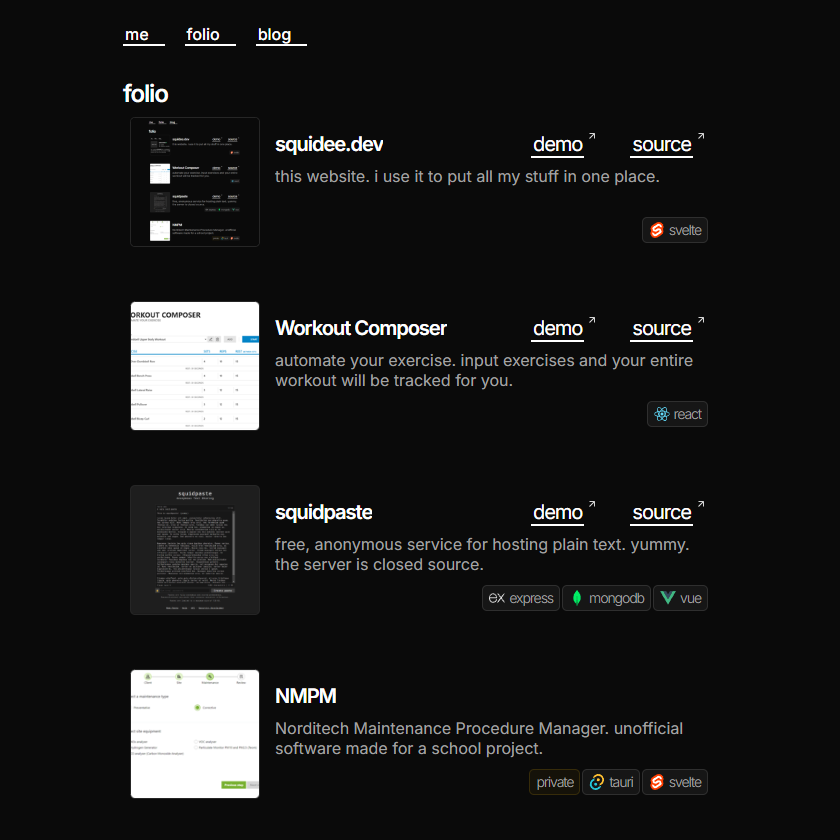
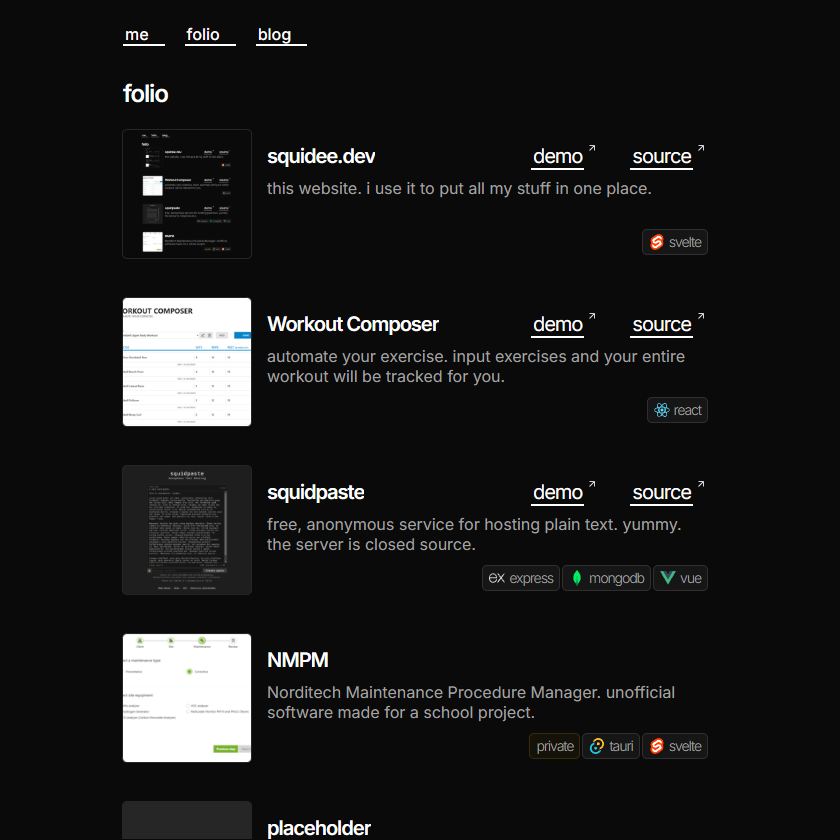
Simplify folio page

diff --git a/src/routes/folio/+page.svelte b/src/routes/folio/+page.svelte
@@ -6,8 +6,8 @@
 	let cursorArea: HTMLDivElement;
 
 	function onMouseMove(e: MouseEvent) {
-		const x = e.clientX - cursorArea.offsetLeft + 840 / 2 + scrollX;
-		const y = e.clientY - cursorArea.offsetTop + scrollY;
+		const x = (e.clientX - cursorArea.offsetLeft + 840 / 2 + scrollX) * 1.02;
+		const y = (e.clientY - cursorArea.offsetTop + scrollY) * 1.02;
 
 		cursor.style.transform = `translate(${x * 0.15}px,${y * 0.15}px)`;
 	}
@@ -21,10 +21,10 @@
 
 <div bind:this={cursorArea} class="center-x pointer-events-none absolute top-[45px] h-[840px] w-[840px]" />
 
-<h1>folio</h1>
-<div class="flex flex-col gap-10">
-	<div class="group flex overflow-hidden rounded p-2 pr-0 ring-1 ring-transparent transition-all hover:ring-neutral-700">
-		<div class="relative flex h-32 w-32 shrink-0 cursor-default items-center justify-center overflow-hidden rounded bg-neutral-800 ring-1 ring-neutral-800">
+<h1 class="mb-5">folio</h1>
+<div class="flex flex-col gap gap-10">
+	<div class="group flex rounded ring-1 ring-transparent transition-all">
+		<div class="relative flex h-32 w-32 shrink-0 cursor-default items-center justify-center overflow-hidden rounded bg-neutral-800 ring-1 ring-neutral-800 transition group-hover:ring-neutral-700">
 			<img src="/folio/squidee-dev-thumb2.png" alt="screenshot of this website" />
 			<img src="/cursor.png" alt="" bind:this={cursor} class="absolute left-0 top-0 w-[3px]" />
 		</div>

diff --git a/src/lib/components/BlogCard.svelte b/src/lib/components/BlogCard.svelte
@@ -15,11 +15,7 @@
 			</div>
 		</div>
 		<div class="relative flex flex-shrink-0 flex-col font-light">
-			<p class="line-clamp-2 break-all text-neutral-400 transition-colors group-hover:text-neutral-300">
-				this a descriptive description this a descriptive description this a descriptive description this a descriptive description this a descriptive
-				description this a descriptive description this a descriptive description this a descriptive description this a descriptive description this a
-				descriptive description this a descriptive description this a descriptive description this a descriptive description this a descriptive description
-			</p>
+			<p class="line-clamp-2 break-all text-neutral-400 transition-colors group-hover:text-neutral-300">{post.blurb}</p>
 		</div>
 	</div>
 	<span class="absolute bottom-1 text-neutral-300 opacity-0 transition-all group-hover:opacity-100">read &rarr;</span>

diff --git a/src/lib/components/Project.svelte b/src/lib/components/Project.svelte
@@ -7,8 +7,10 @@
 	export let sourceURL: string | undefined = undefined;
 </script>
 
-<div class="group flex overflow-hidden rounded p-2 pr-0 ring-1 ring-transparent transition-all hover:ring-neutral-700">
-	<div class="flex h-32 w-32 shrink-0 cursor-default items-center justify-center overflow-hidden rounded bg-neutral-800 ring-1 ring-neutral-800">
+<div class="group flex rounded ring-1 ring-transparent transition-all">
+	<div
+		class="flex h-32 w-32 shrink-0 cursor-default items-center justify-center overflow-hidden rounded bg-neutral-800 ring-1 ring-neutral-800 transition group-hover:ring-neutral-700"
+	>
 		{#if imageSrc == "comingsoon"}
 			<span class="animate-pulse">coming soon...</span>
 		{:else if imageSrc == undefined}

diff --git a/src/routes/blog/[slug]/+page.svelte b/src/routes/blog/[slug]/+page.svelte
@@ -11,6 +11,7 @@
 
 <div class="flex flex-col gap-8">
 	<div class="flex flex-col gap-4">
+		<a href="/blog" class="link w-fit">&lt; back</a>
 		<h1 class="text-5xl font-normal">{data.post.title}</h1>
 		<div class="flex gap-2 text-sm">
 			<span>published {DateTime.fromJSDate(new Date(data.post.created)).toFormat("d MMM y")}</span>
